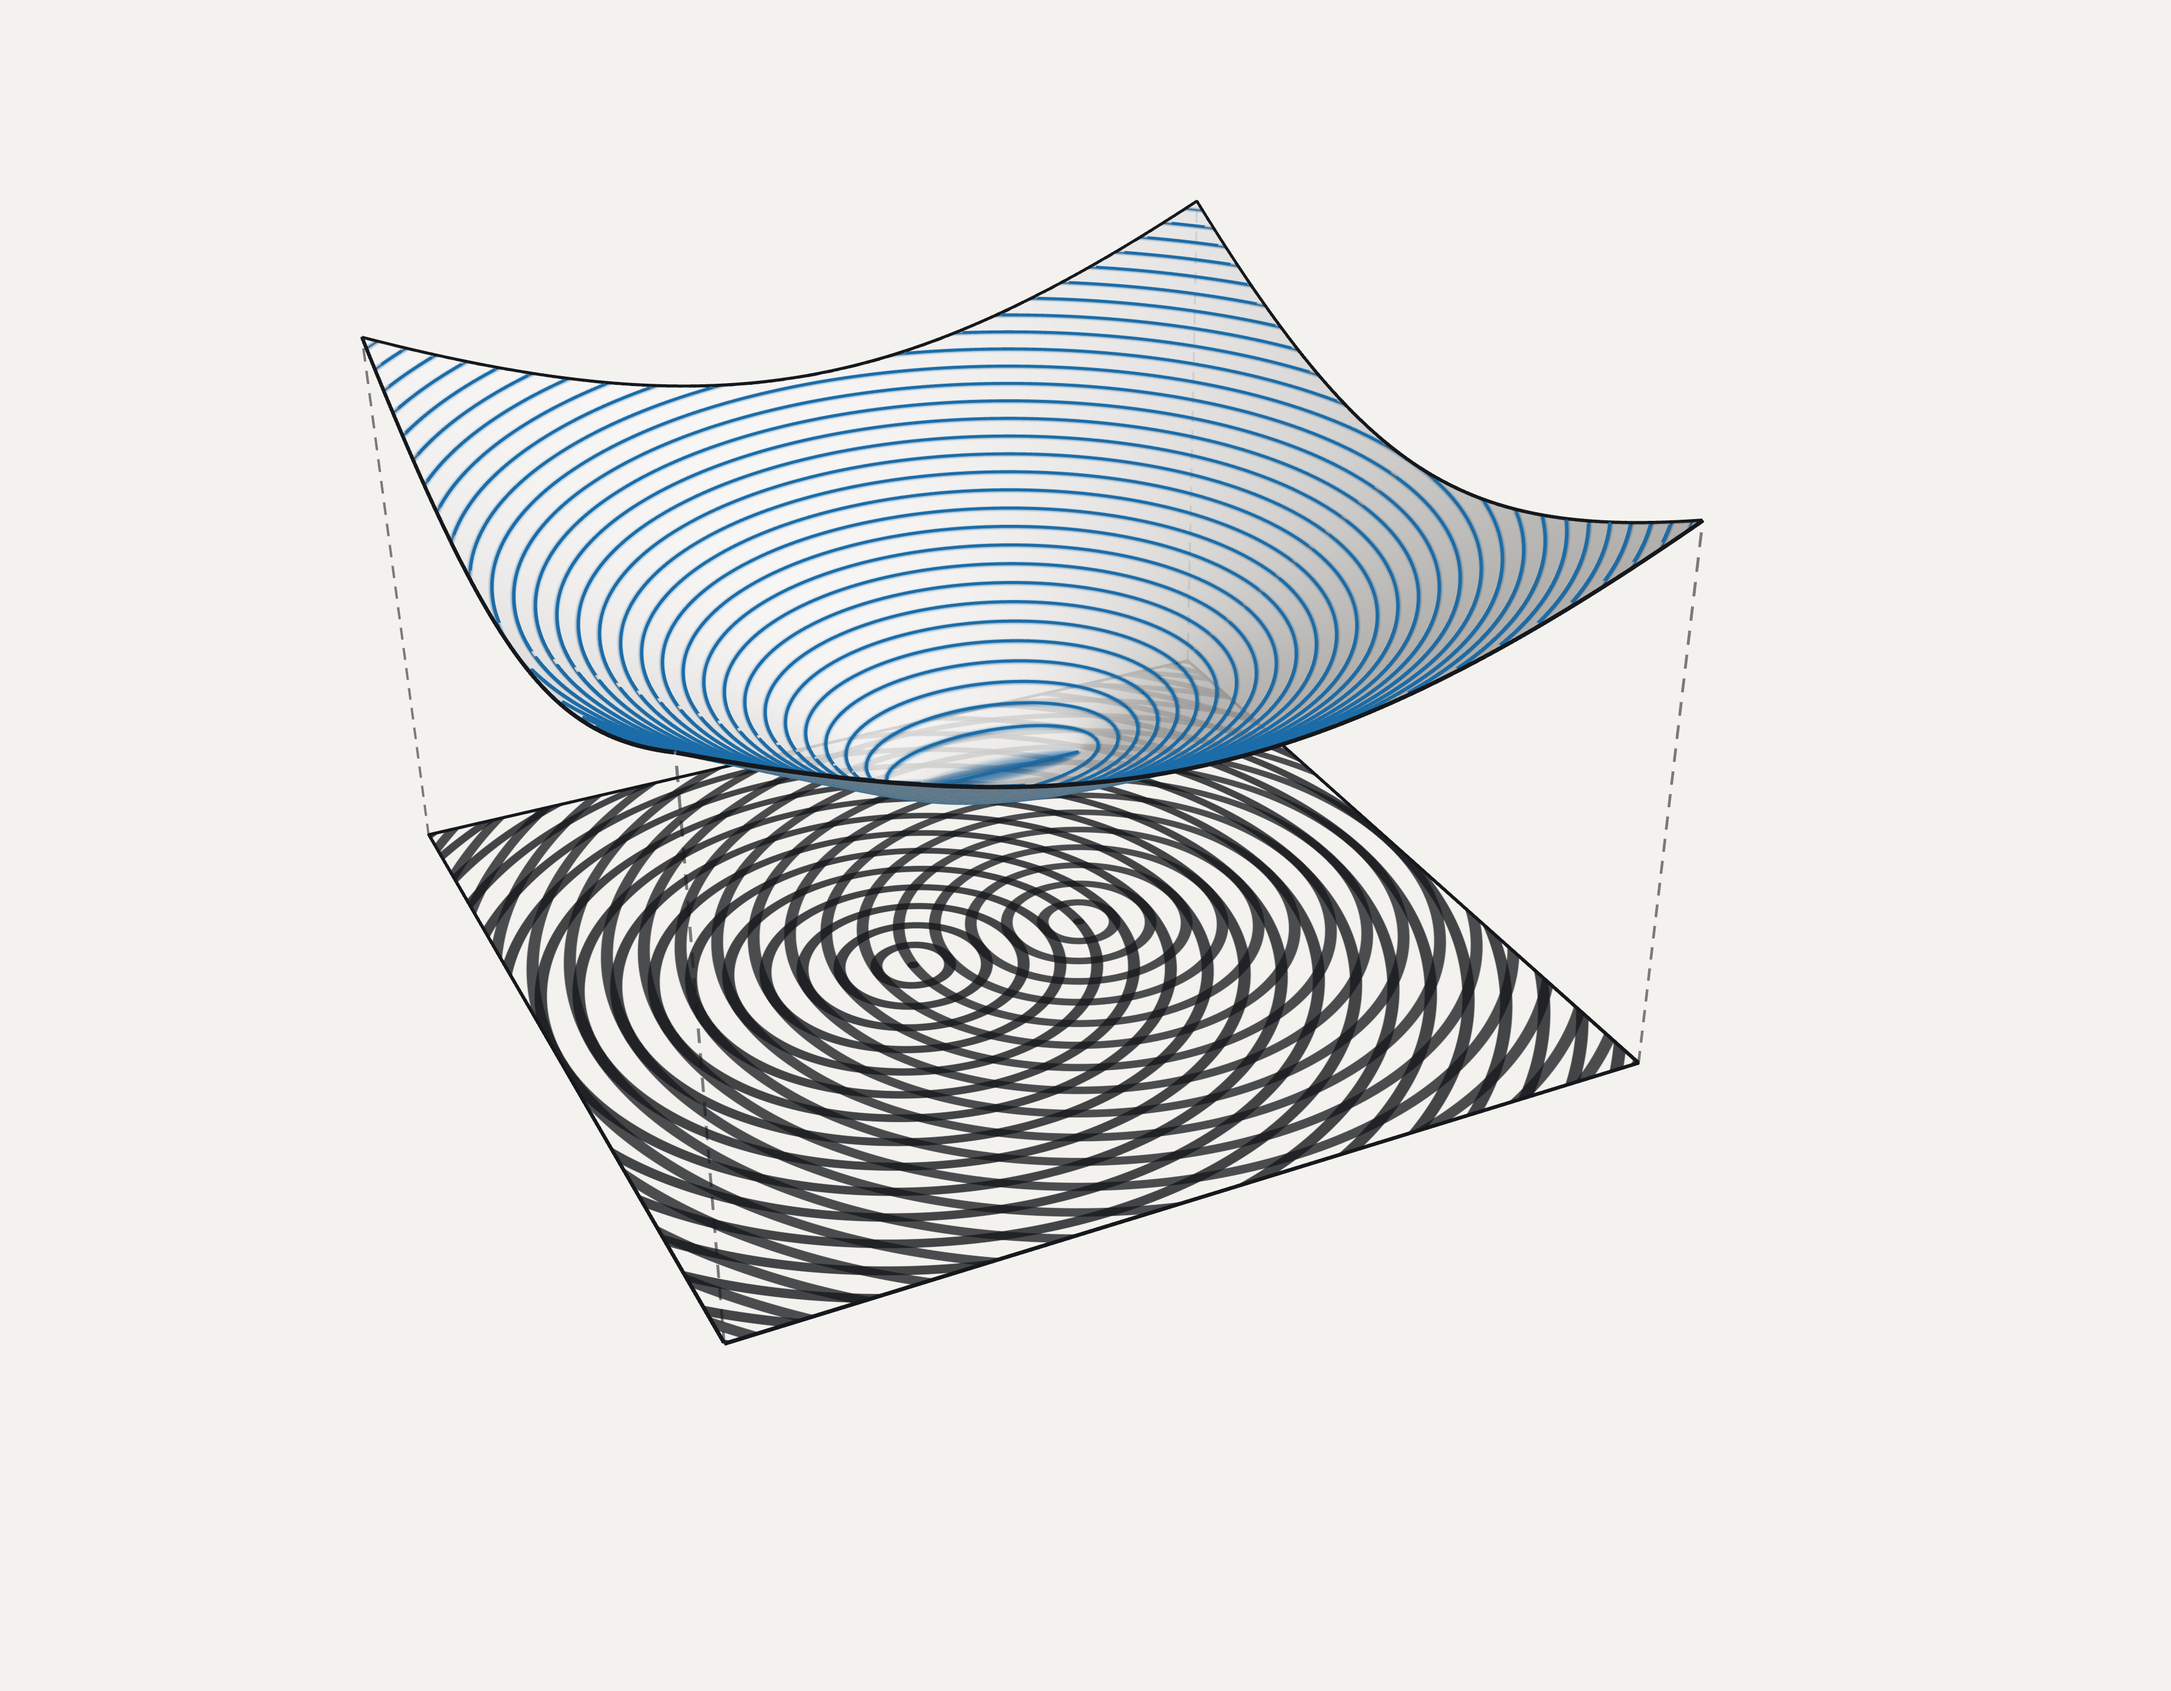
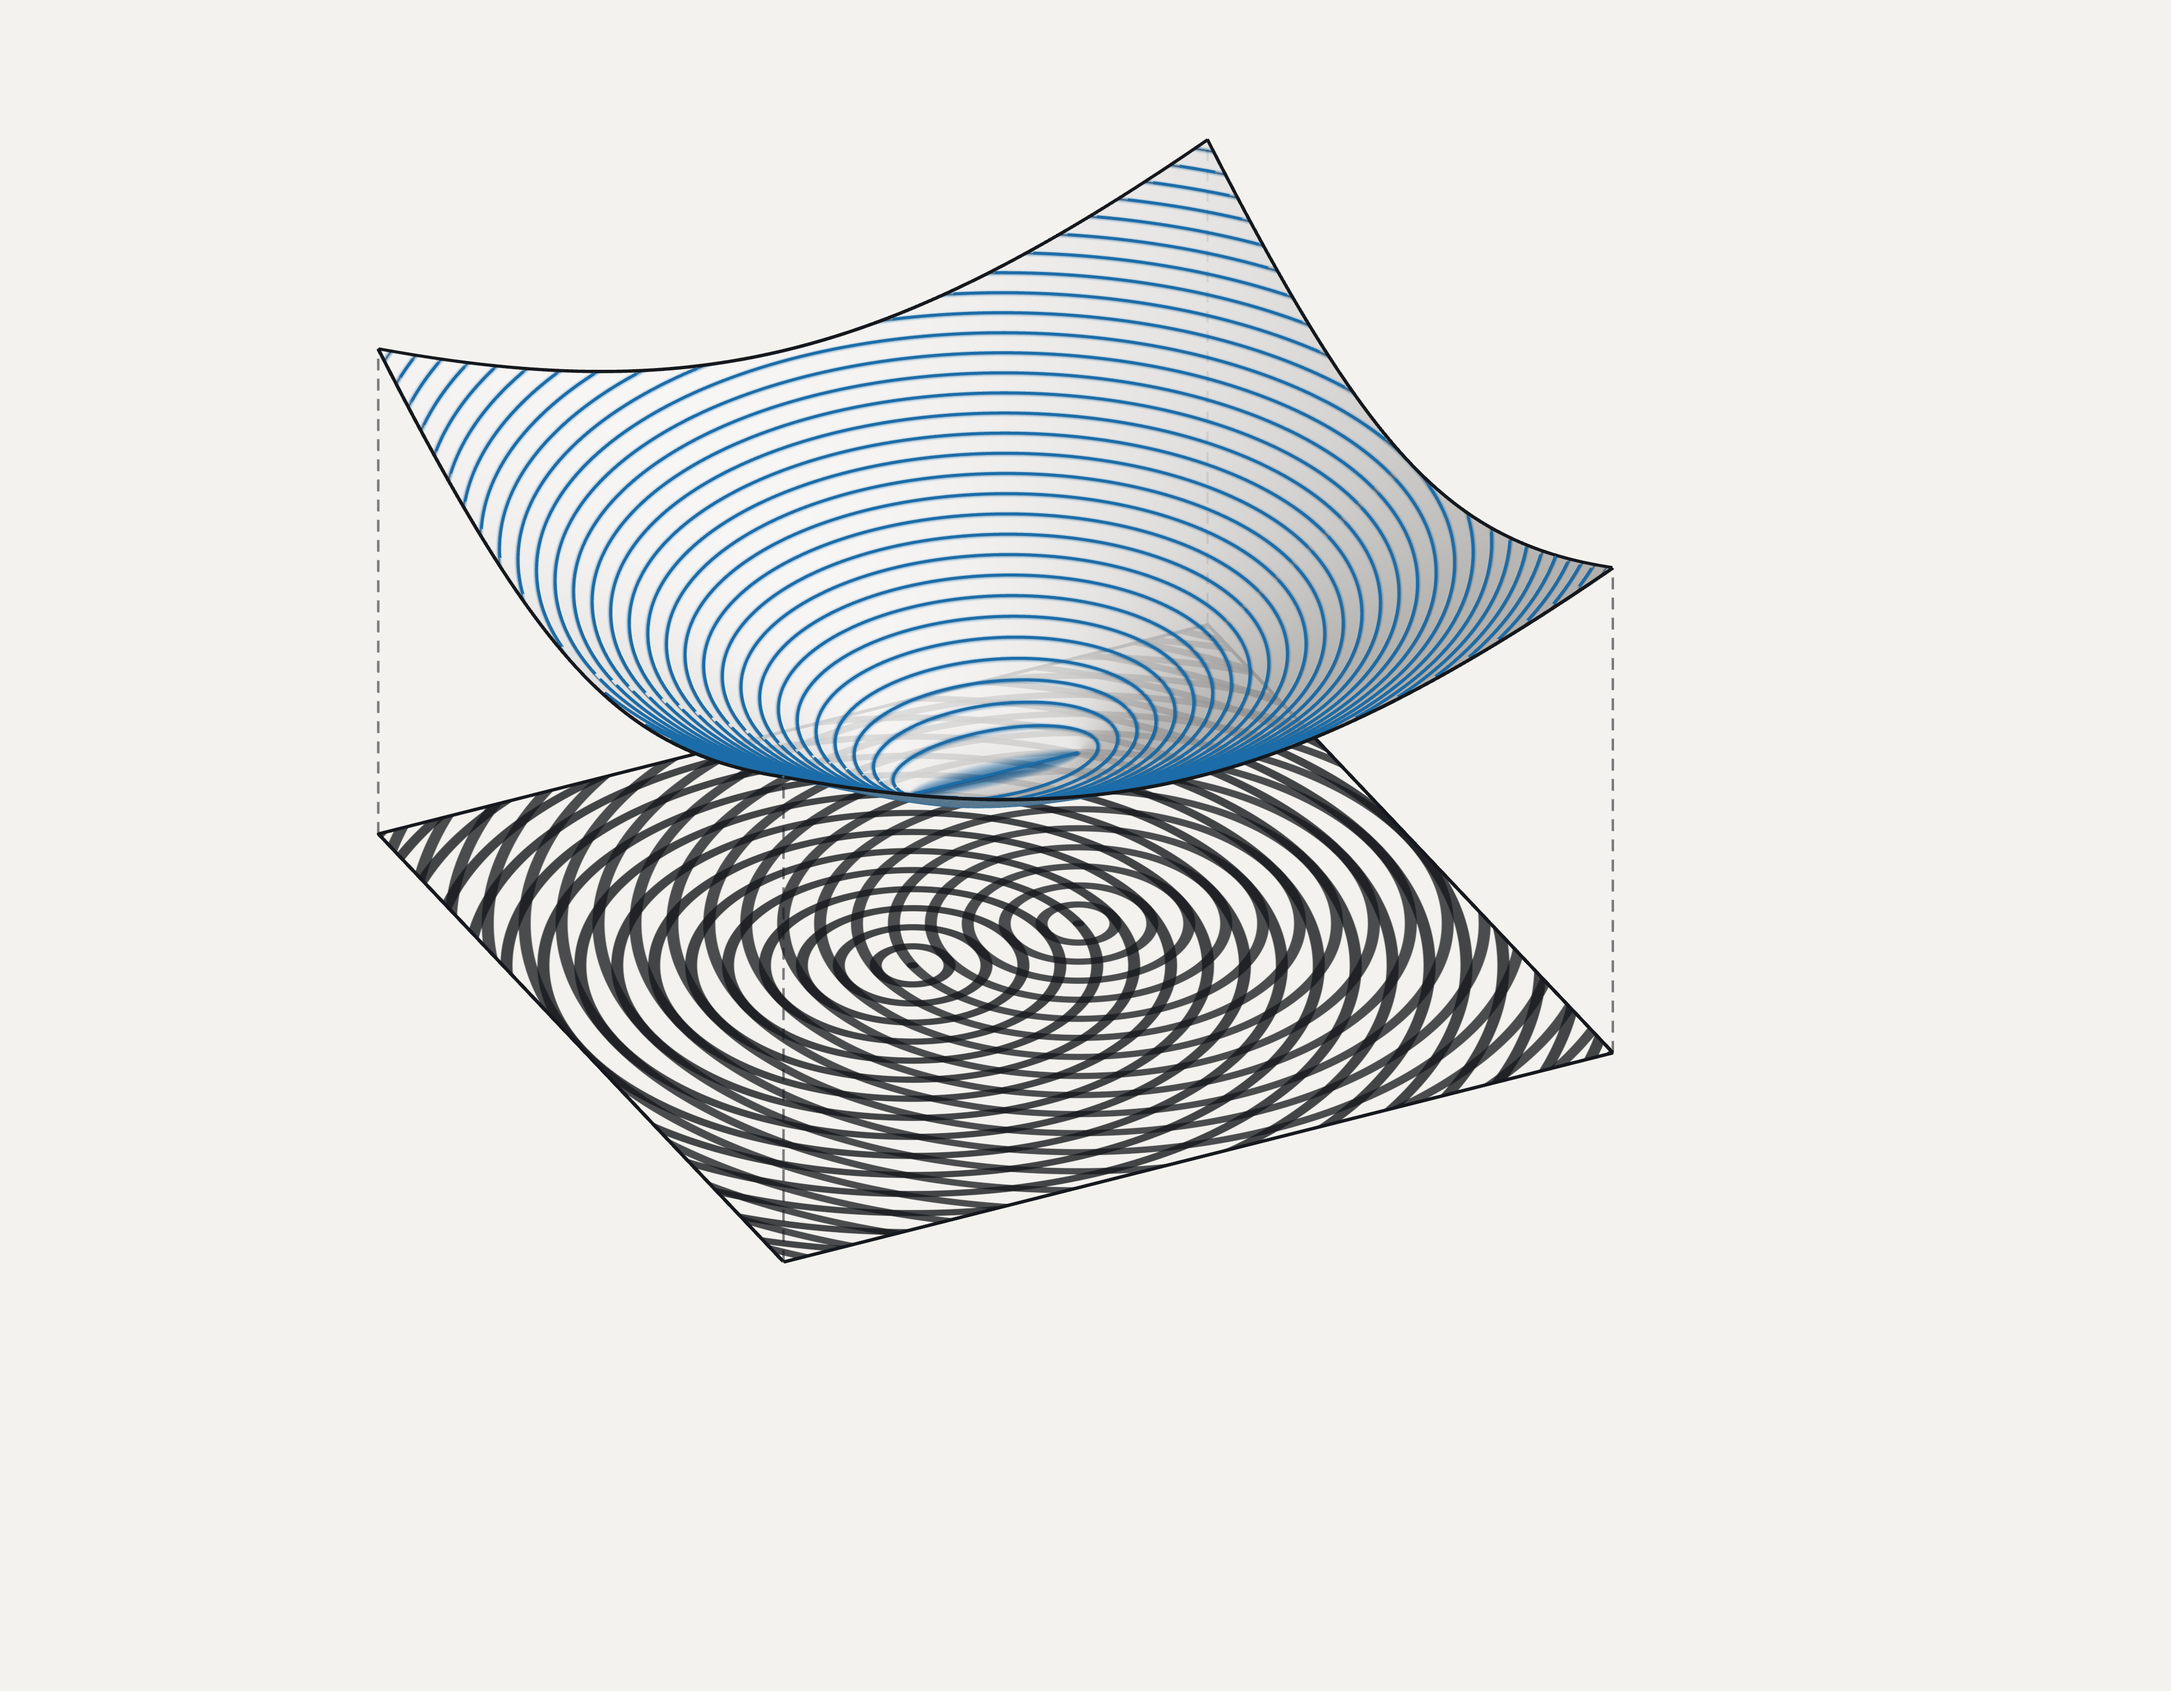
The explorer gains a true orthographic camera, and Fig 4 goes parallel-projected
A Projection toggle beside the scene controls: the ortho frustum height
tracks the perspective framing at the same distance, so switching holds
the subject size and wheel-zoom still zooms; orbit, pan, exports, and
the capture harness drive either camera. The panels re-render ortho —
corner posts exactly vertical, the two boxes congruent — ready for
annotation.

Changed region(s): [[0.156, 0.0934, 0.78, 0.8097]]

diff --git a/paper/tools/fig4-artifact/main.ts b/paper/tools/fig4-artifact/main.ts
@@ -8,6 +8,7 @@ type Panel = 'difference' | 'sum';
 
 interface Params {
   panel: Panel;
+  projection: 'perspective' | 'orthographic';
   F: number; // focus half-separation (patch units)
   levels: number; // fringe count: D spans -levels..levels (pitch s = 2F/levels)
   relief: number; // total surface height (patch units)
@@ -30,6 +31,7 @@ interface Params {
 
 const P: Params = {
   panel: 'difference',
+  projection: 'perspective',
   F: 0.2,
   levels: 5,
   relief: 0.5,
@@ -173,8 +175,16 @@ const renderer = new THREE.WebGLRenderer({ canvas, antialias: true });
 renderer.setPixelRatio(Math.min(devicePixelRatio, 2));
 const scene = new THREE.Scene();
 scene.background = new THREE.Color(PAPER);
-const camera = new THREE.PerspectiveCamera(32, 1, 0.01, 50);
-camera.up.set(0, 0, 1);
+const persp = new THREE.PerspectiveCamera(32, 1, 0.01, 80);
+const ortho = new THREE.OrthographicCamera(-1, 1, 1, -1, 0.01, 80);
+persp.up.set(0, 0, 1);
+ortho.up.set(0, 0, 1);
+let camera: THREE.PerspectiveCamera | THREE.OrthographicCamera = persp;
+let viewAspect = 1;
+function activeCamera() {
+  camera = P.projection === 'orthographic' ? ortho : persp;
+  return camera;
+}
 
 const sun = new THREE.DirectionalLight(0xffffff, 2.1);
 const fill = new THREE.DirectionalLight(0xdfe8ff, 0.5);
@@ -610,6 +620,7 @@ let theta = (-62 * Math.PI) / 180; // azimuth, from +x
 let phi = (65 * Math.PI) / 180; // polar from +z
 let dist = 4.6;
 function placeCamera() {
+  activeCamera();
   phi = Math.min(Math.max(phi, 0.05), Math.PI - 0.05);
   dist = Math.min(Math.max(dist, 1.2), 14);
   camera.position.set(
@@ -618,6 +629,14 @@ function placeCamera() {
     target.z + dist * Math.cos(phi)
   );
   camera.lookAt(target);
+  if (camera === ortho) {
+    // Frustum height tracks the perspective framing at the same distance, so
+    // switching projections holds the subject size and wheel-zoom still zooms.
+    const hh = dist * Math.tan((persp.fov * Math.PI) / 360);
+    ortho.top = hh; ortho.bottom = -hh;
+    ortho.right = hh * viewAspect; ortho.left = -hh * viewAspect;
+  }
+  camera.updateProjectionMatrix();
 }
 let drag: { x: number; y: number; btn: number } | null = null;
 canvas.addEventListener('pointerdown', (e) => {
@@ -725,6 +744,14 @@ for (const m of ['bands', 'phi'] as const) {
   });
 }
 
+for (const m of ['perspective', 'orthographic'] as const) {
+  $('proj-' + (m === 'perspective' ? 'persp' : 'ortho')).addEventListener('click', () => {
+    P.projection = m;
+    $('proj-persp').classList.toggle('on', m === 'perspective');
+    $('proj-ortho').classList.toggle('on', m === 'orthographic');
+    placeCamera();
+  });
+}
 for (const p of ['difference', 'sum'] as Panel[]) {
   $(p).addEventListener('click', () => {
     P.panel = p;
@@ -768,14 +795,18 @@ function syncUi() {
   $('sum').classList.toggle('on', P.panel === 'sum');
   $('mode-bands').classList.toggle('on', P.fillMode === 'bands');
   $('mode-phi').classList.toggle('on', P.fillMode === 'phi');
+  $('proj-persp').classList.toggle('on', P.projection !== 'orthographic');
+  $('proj-ortho').classList.toggle('on', P.projection === 'orthographic');
+  placeCamera();
 }
 window.addEventListener('pageshow', () => setTimeout(syncUi, 250));
 
 function resize() {
   const w = innerWidth, h = innerHeight;
   renderer.setSize(w, h, false);
-  camera.aspect = w / h;
-  camera.updateProjectionMatrix();
+  viewAspect = w / h;
+  persp.aspect = viewAspect;
+  placeCamera();
 }
 addEventListener('resize', resize);
 resize();
@@ -828,8 +859,8 @@ renderer.setAnimationLoop(() => renderer.render(scene, camera));
   apply();
   renderer.setPixelRatio(1);
   renderer.setSize(w, h, false);
-  camera.aspect = w / h;
-  camera.updateProjectionMatrix();
+  viewAspect = w / h;
+  persp.aspect = viewAspect;
   placeCamera();
   renderer.render(scene, camera);
   const url = canvas.toDataURL('image/png');

diff --git a/paper/tools/fig4-artifact/index.html b/paper/tools/fig4-artifact/index.html
@@ -66,6 +66,10 @@
   <div class="row"><span>Separation F</span><input id="f" type="range" min="0.08" max="0.35" step="0.005"><span id="f-v"></span></div>
   <div class="row"><span>Fringe levels</span><input id="levels" type="range" min="3" max="9" step="1"><span id="levels-v"></span></div>
   <div class="row"><span>Ring duty</span><input id="duty" type="range" min="0.15" max="0.7" step="0.01"><span id="duty-v"></span></div>
+  <div class="seg" style="margin-top:6px">
+    <button id="proj-persp" class="on">Perspective</button>
+    <button id="proj-ortho">Orthographic</button>
+  </div>
   <div class="lab">Surface</div>
   <div class="seg" style="margin-bottom:6px">
     <button id="mode-bands" class="on">Bands</button>
